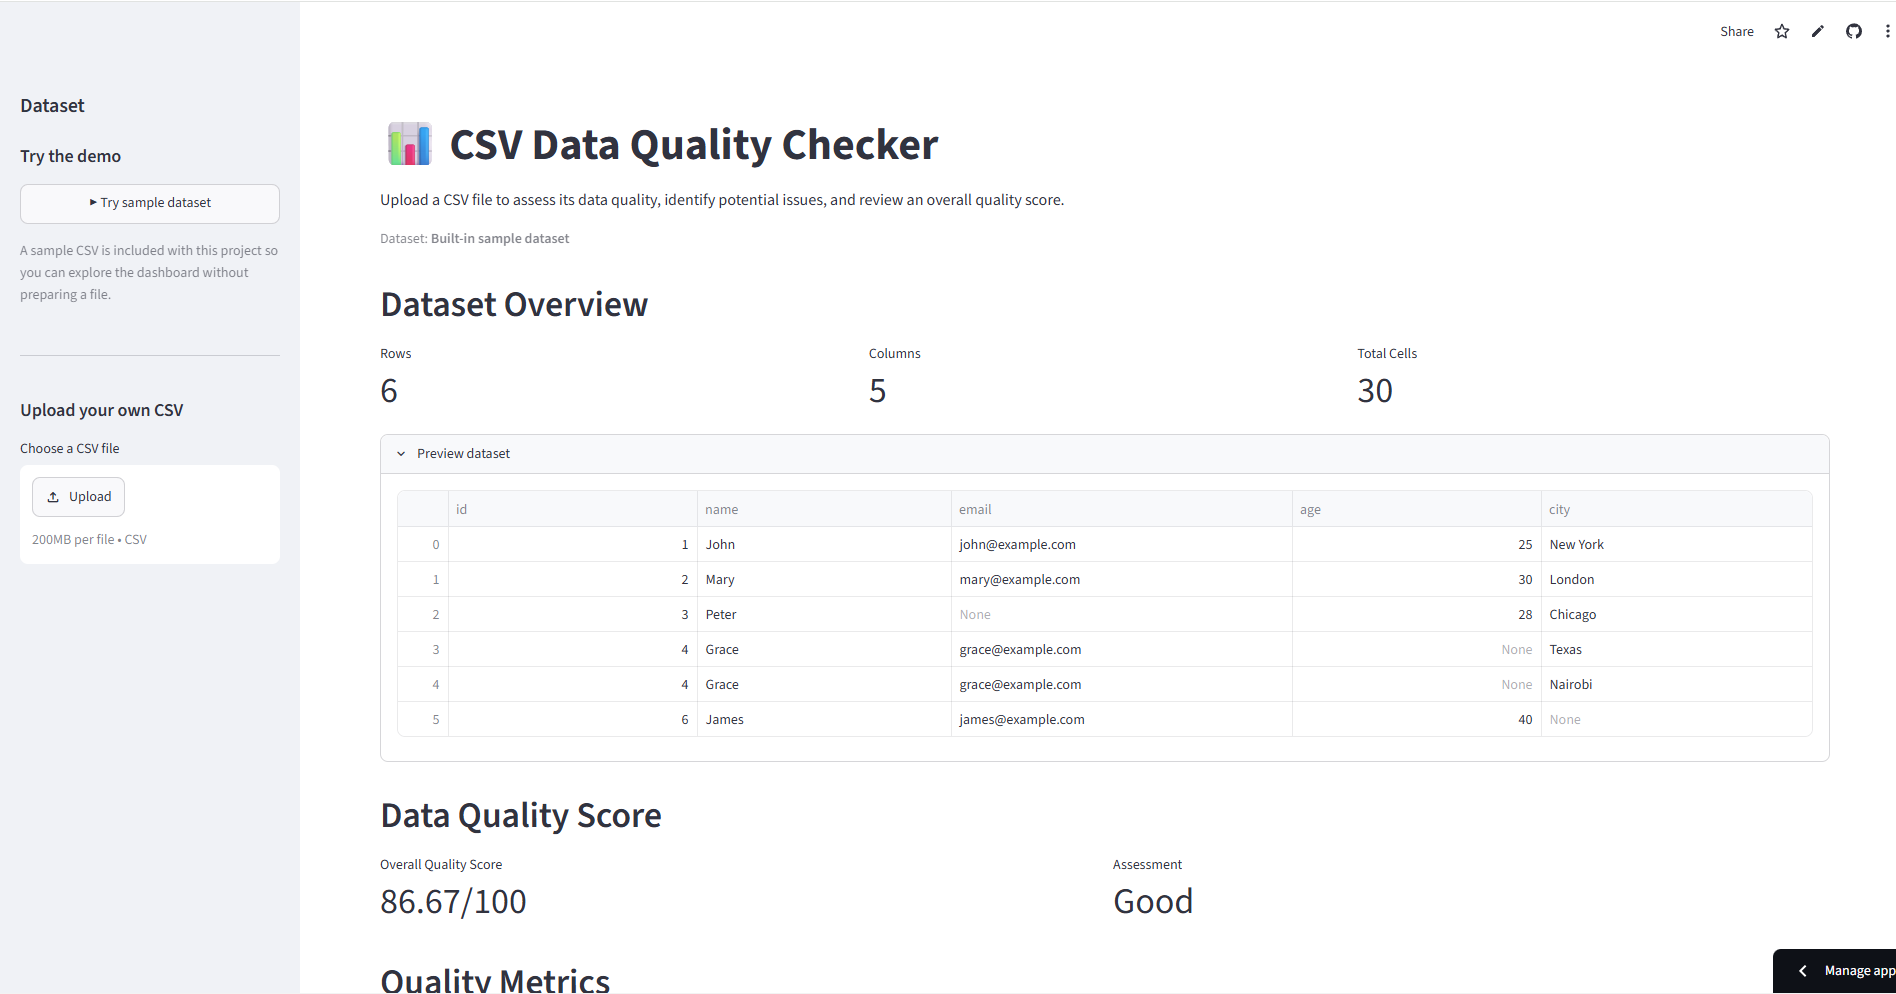
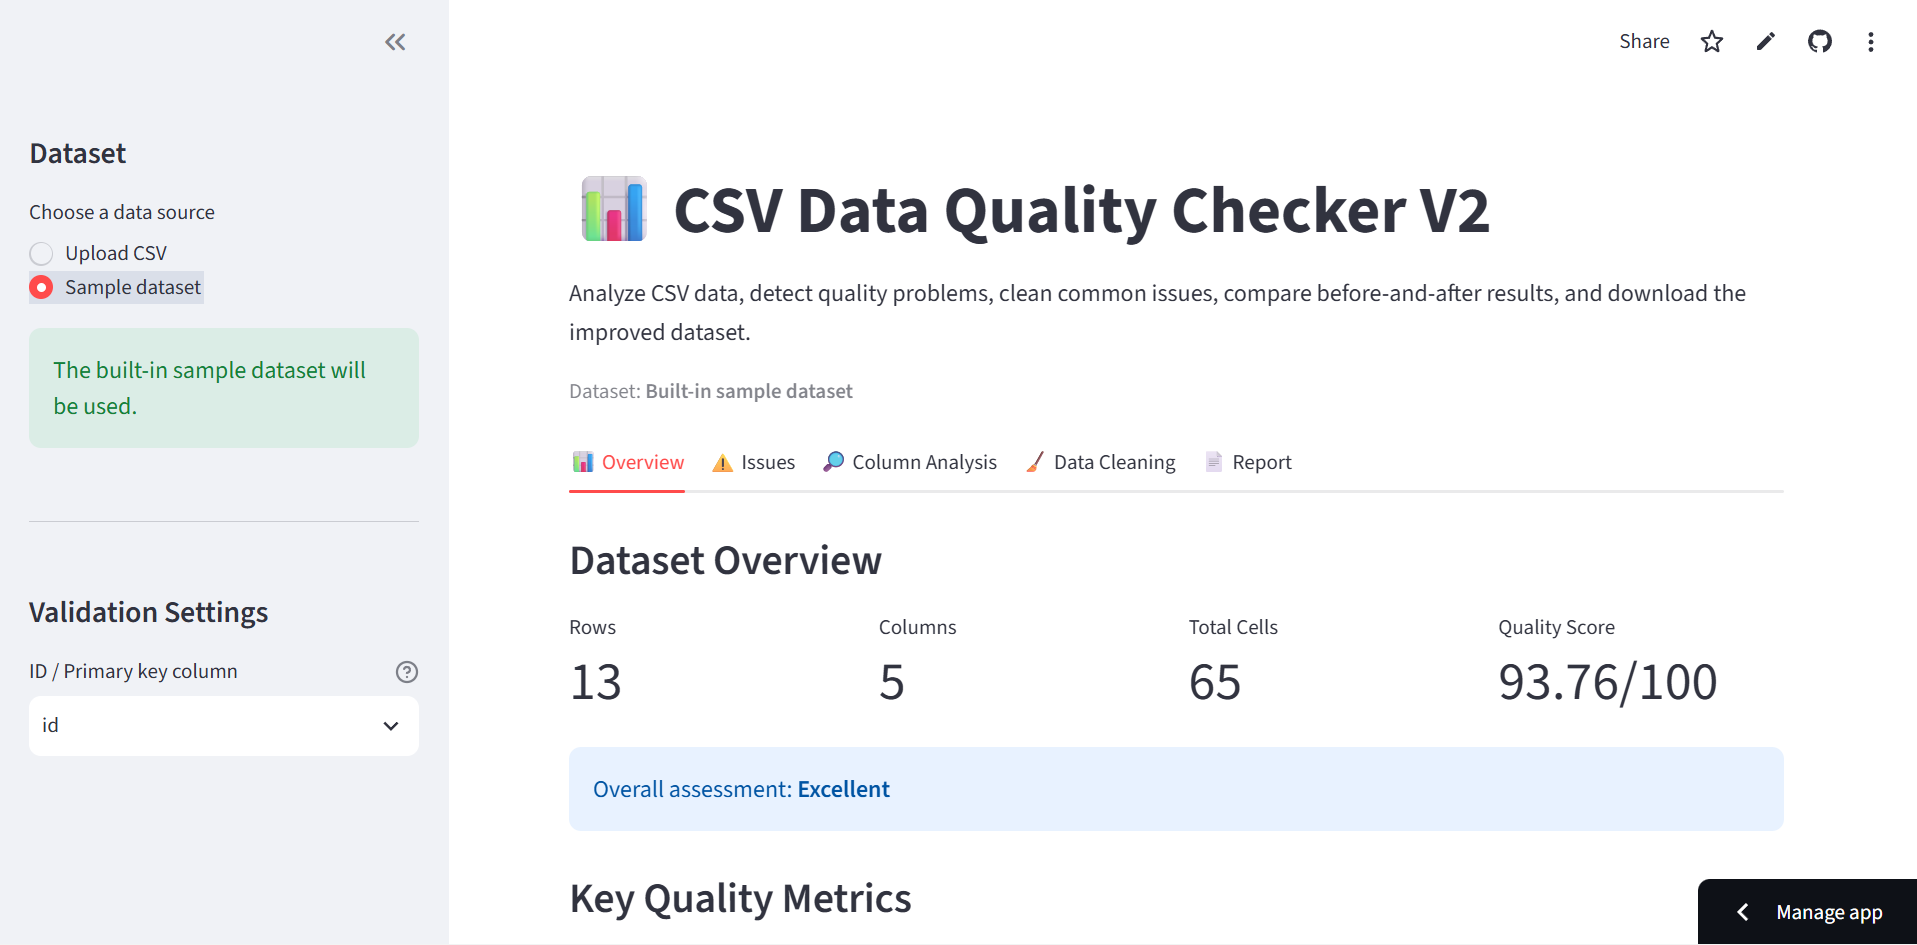
feat: update portfolio with CSV Data Quality Checker V2

diff --git a/app/page.js b/app/page.js
@@ -24,6 +24,9 @@ export default function PortfolioWebsite() {
     "Python",
     "Kotlin",
     "JavaScript",
+    "Pytest",
+    "GitHub Actions",
+    "CI/CD",
     "Spring Boot",
     "FastAPI",
     "Django REST Framework",
@@ -44,6 +47,8 @@ export default function PortfolioWebsite() {
     "Streamlit",
     "Plotly",
     "Data Analytics",
+    "Data Quality",
+    "Data Cleaning",
     "Predictive Analytics",
     "Cybersecurity",
     "Git/GitHub",
@@ -189,21 +194,36 @@ export default function PortfolioWebsite() {
   demo: "#"
 },
 {
-  title: "CSV Data Quality Checker",
+  title: "CSV Data Quality Checker V2",
 
-  category: "Data Quality / Streamlit Application",
+  category: "Data Quality Engineering & Cleaning Platform",
 
   image: "/projects/csv-data-quality-checker.png",
 
+
   description:
+    "An advanced Python and Streamlit data-quality platform for analyzing, validating, cleaning, and improving CSV datasets. Version 2 was independently developed by Job Munyoki as a major upgrade of the original collaborative V1 project. It introduces weighted quality scoring, column-level quality scores, missing-value handling, duplicate detection, whitespace and empty-string validation, inconsistent data-type detection, IQR-based outlier detection, capitalization checks, interactive data cleaning, before-and-after reporting, cleaned CSV exports, downloadable quality reports, 34 automated tests, and GitHub Actions continuous integration.",
 
-  "A collaborative Python-based data quality application that analyzes CSV datasets for missing values, duplicate rows, and duplicate IDs. The Streamlit dashboard provides interactive dataset previews, quality metrics, validation results, visualizations, and an overall data-quality score. Job contributed to the Streamlit dashboard, CSV upload workflow, data visualizations, quality-score presentation, sample-dataset experience, and GitHub collaboration through feature branches and pull requests.",
-
-  tech: ["Python", "Streamlit", "Pandas", "Pytest", "Git", "GitHub", "CSV", "Data Visualization", "Streamlit Community Cloud"],
+  tech: [
+    "Python",
+    "Streamlit",
+    "Pandas",
+    "Pytest",
+    "GitHub Actions",
+    "Data Validation",
+    "Data Cleaning",
+    "Data Quality",
+    "IQR Outlier Detection",
+    "CSV Analytics",
+    "Git",
+    "GitHub",
+    "CI/CD",
+    "Streamlit Community Cloud"
+  ],
 
   github: "https://github.com/scotlanbettes/csv-data-quality-checker",
 
-  demo: "https://csv-data-quality-checker-zbqqjhzwciuvngr2gjerh3.streamlit.app/"
+  demo: "https://csv-data-quality-checker-v2.streamlit.app/"
 
 },
         
